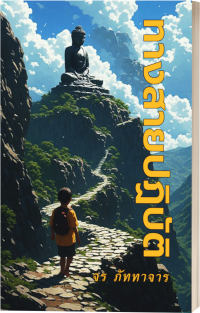
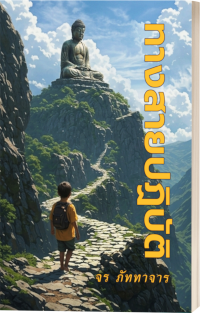
change ptrain cover

diff --git a/_pages/index.md b/_pages/index.md
@@ -19,11 +19,11 @@ permalink: /
 
 [![BudDisThai](/assets/images/buddisthai-3d.png)](/buddisthai)[![PNL](/assets/images/pnl-3d.png)](/pnl)[![PTR](/assets/images/ptr-3d.png)](/ptr)[![KSut](/assets/images/ksut-3d.png)](/ksut)[![PPMan](/assets/images/ppman-3d.png)](/ppman)
 
-## หนังสือภาษาไทย
+## หนังสือภาษาไทย {#thaibooks}
 - [ปัญญาสู่อิสรภาพ](/libwis) <svg class="icon"><use xlink:href="/assets/fontawesome/custom.svg#file-pdf"></use></svg> <span class="label label-green">v1.0.5</span>
 - [พุทธศาสน์ชาติเดียว](/bsl) <svg class="icon"><use xlink:href="/assets/fontawesome/custom.svg#file-pdf"></use></svg> <span class="label label-green">v0.9.2</span>
 - [ธรรมะทางเลือก](/altdham) <svg class="icon"><use xlink:href="/assets/fontawesome/custom.svg#file-pdf"></use></svg> <span class="label label-green">v0.9.0</span>
-- [ทางสายปฏิบัติ](/ptrain) <svg class="icon"><use xlink:href="/assets/fontawesome/custom.svg#file-pdf"></use></svg> <span class="label label-green">v0.9.0</span>
+- [ทางสายปฏิบัติ](/ptrain) <svg class="icon"><use xlink:href="/assets/fontawesome/custom.svg#file-pdf"></use></svg> <span class="label label-green">v0.9.1</span>
 
 [![LibWis](/assets/images/libwis-3d.png)](/libwis) [![BSL](/assets/images/bsl-3d.png)](/bsl) [![AltDham](/assets/images/altdham-3d.png)](/altdham) [![PTrain](/assets/images/ptrain-3d.png)](/ptrain)
 

diff --git a/_pages/altdham.md b/_pages/altdham.md
@@ -10,7 +10,7 @@ version: 0.9.0
 | ชื่อหนังสือ: | **ธรรมะทางเลือก** (Alternative Dhamma) |
 | ชื่อรอง: | สู่อิสรภาพด้วยการไม่ปฏิบัติ |
 | ผู้แต่ง: | จร ภัททาจาร |
-| คำอธิบาย: | ทางเลือกอันลัดสั้นสู่การรู้แ้จง |
+| คำอธิบาย: | ทางเลือกอันลัดสั้นสู่การรู้แจ้ง |
 | ความหนา: | 56 หน้า (A5) |
 | รหัสโครงการ: | altdham |
 | ผู้ผลิตและเผยแพร่: | [อิสราศรม ทิศาปาโมกข์](https://www.facebook.com/disapamokkh){:target="\_blank"}  <svg class="icon"><use xlink:href="/assets/fontawesome/custom.svg#facebook-square"></use></svg>|

diff --git a/_pages/ptrain.md b/_pages/ptrain.md
@@ -1,7 +1,7 @@
 ---
 title: "ทางสายปฏิบัติ"
 permalink: /ptrain
-version: 0.9.0
+version: 0.9.1
 ---
 
 ![BUDDISTHAI](/assets/images/ptrain-cover.jpg)
